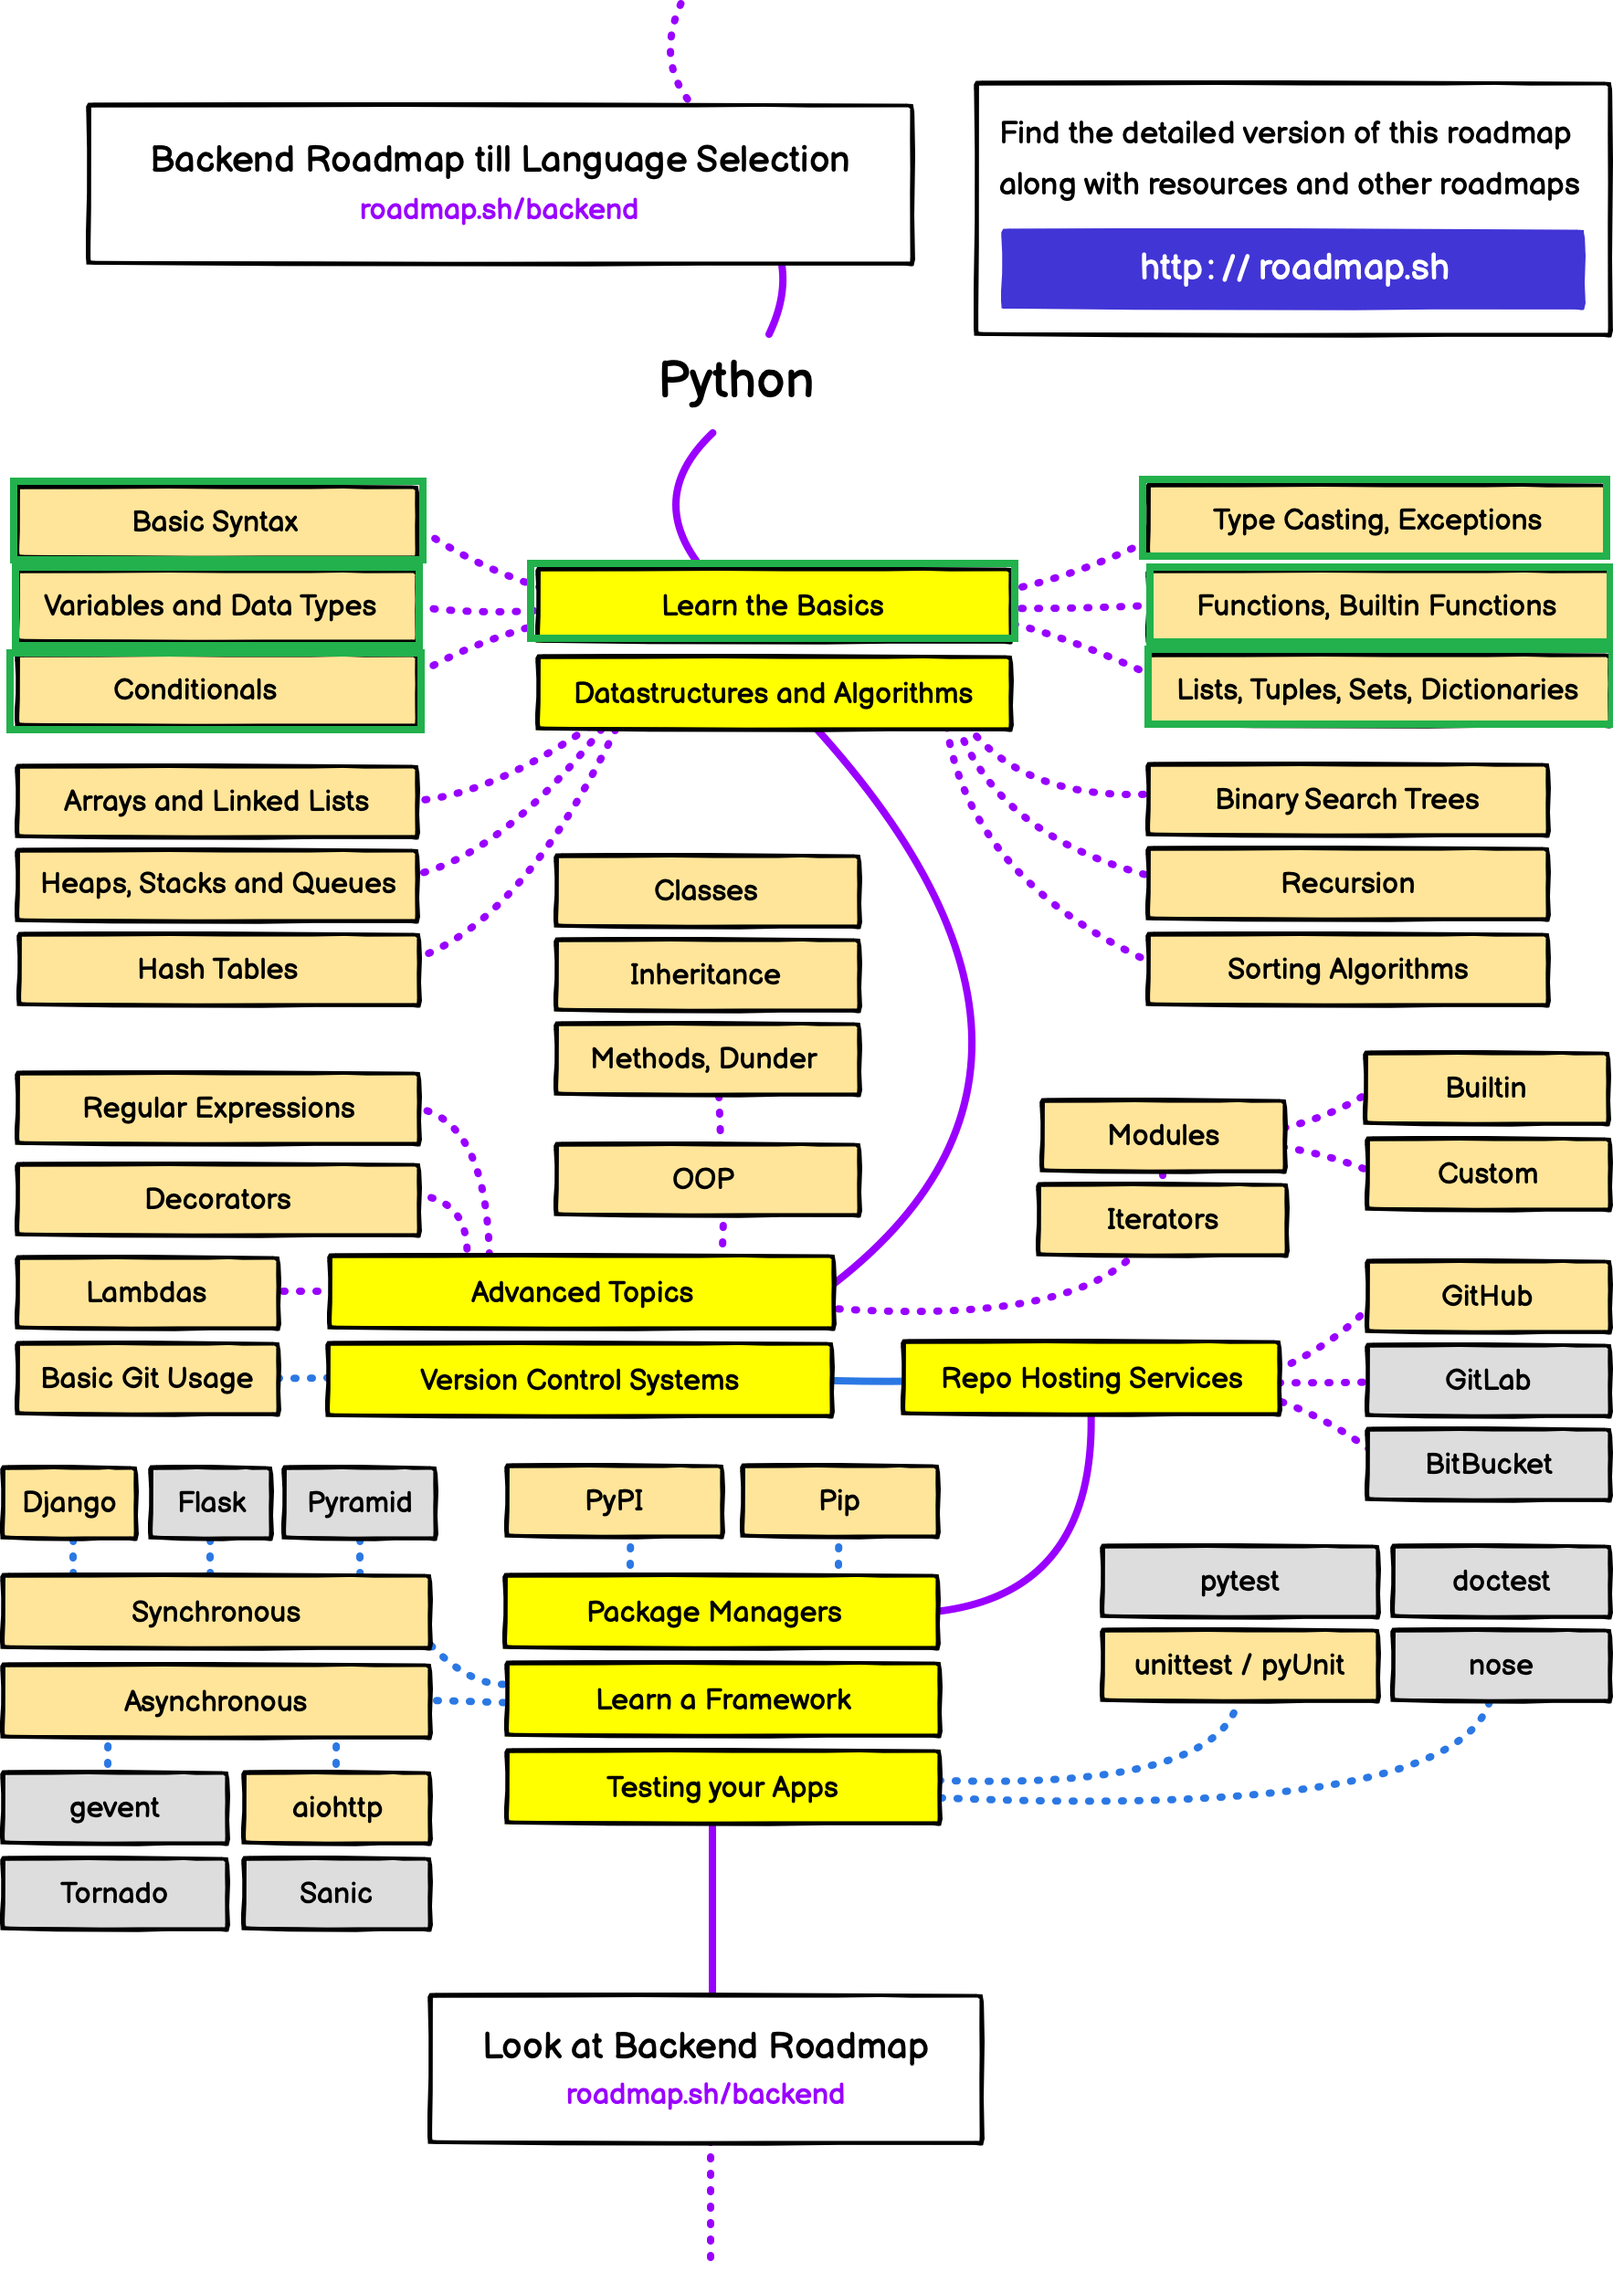
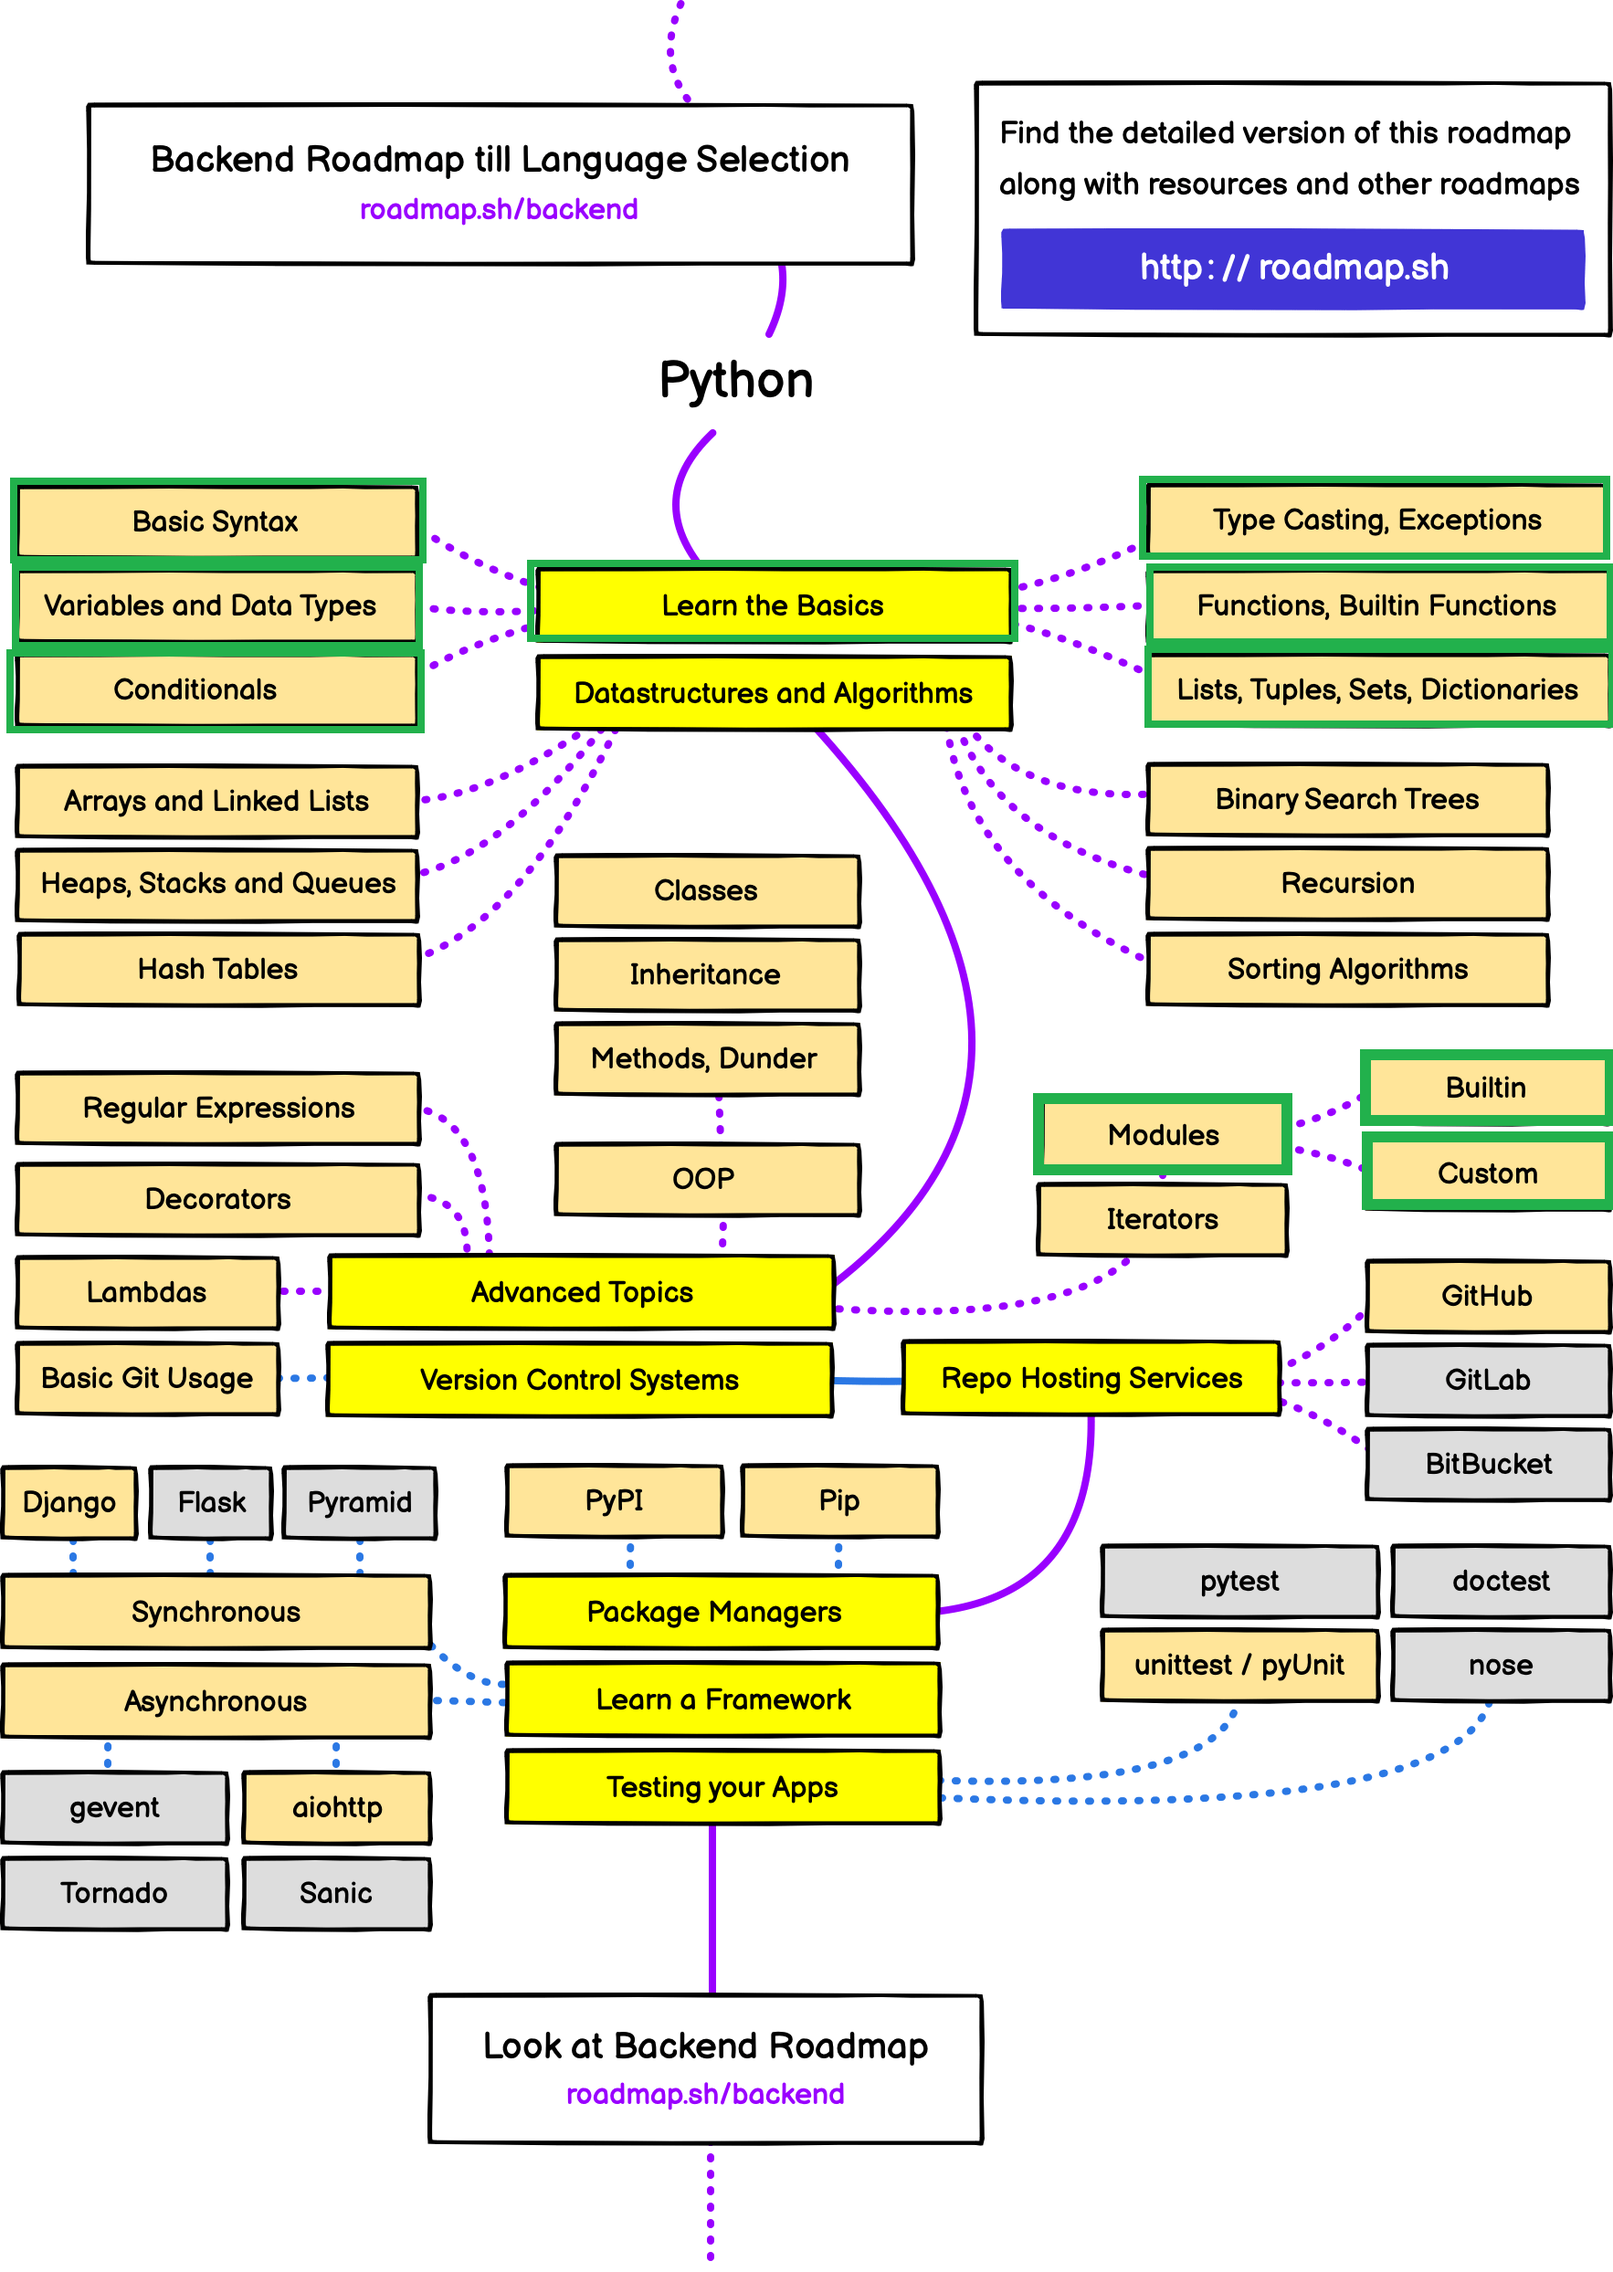
upp

Changed region(s): [[0.8409, 0.4642, 1.0, 0.5571], [0.6229, 0.4642, 0.8097, 0.5261]]

diff --git a/advanced_topics/modules/ascii_art.py b/advanced_topics/modules/ascii_art.py
@@ -1,0 +1,16 @@
+from pyfiglet import figlet_format
+from termcolor import colored
+
+def print_art(msg, color):
+	valid_colors = ("red", "green", "yellow", "blue", "magenta", "cyan", "white")
+
+	if color not in valid_colors:
+		color = "magenta"
+
+	ascii_art = figlet_format(msg)
+	colored_ascii = colored(ascii_art, color=color)
+	print(colored_ascii)
+
+msg = input("What would you like to print? ")
+color = input("What color? ")
+print_art(msg, color)

diff --git a/advanced_topics/iterators/for.py b/advanced_topics/iterators/for.py
@@ -1,0 +1,20 @@
+# Custom For Loop
+
+# for num in [1,2,3]
+# for char in "hi there"
+
+def my_for(iterable, func):
+	iterator = iter(iterable)
+	while True:
+		try:
+			thing = next(iterator)
+		except StopIteration:
+			break
+		else:
+			func(thing)
+		
+def square(x):
+	print(x*x)
+
+my_for("lol", print)
+my_for([1,2,3,4,5], square)

diff --git a/advanced_topics/iterators/custom_iterator.py b/advanced_topics/iterators/custom_iterator.py
@@ -1,0 +1,20 @@
+class Counter:
+	def __init__(self, low, high):
+		self.current = low
+		self.high = high
+
+	def __iter__(self):
+		return self
+
+	def __next__(self):
+		if self.current < self.high:
+			num = self.current
+			self.current += 1
+			return num
+		raise StopIteration
+
+
+
+
+for x in Counter(50,70):
+	print(x)

diff --git a/advanced_topics/modules/rand_module.py b/advanced_topics/modules/rand_module.py
@@ -1,0 +1,4 @@
+from random import choice as pick, randint as magic_number_chooser
+
+print(pick(["apple", "banana", "cherry", "durian"]))
+print(magic_number_chooser(1, 100))

diff --git a/advanced_topics/modules/colors.py b/advanced_topics/modules/colors.py
@@ -1,0 +1,4 @@
+from termcolor import colored
+
+text = colored("HI THERE!", color="magenta", on_color="on_cyan", attrs=["blink"])
+print(text)

diff --git a/advanced_topics/modules/note.md b/advanced_topics/modules/note.md
@@ -1,0 +1,32 @@
+# Modules
+Modules używamy aby nasz główny kod nie był za długi.
+
+## Built-in Modules
+Python gwarantuje wiele wbudowanych modułów, ich spis:  
+https://docs.python.org/3/py-modindex.html
+
+Przykładowe użycie:
+```
+import random
+from termcolor import colored
+```
+
+## Import from another file
+Sami również możemy tworzyć modules z funkcjami, a następnie wykorzystywać w innych programach
+aby importować z innego pliku należy:
+```
+import <file name>
+from <file name> import *
+from <file name> import <function name>
+```
+
+## Packages i pip
+Możemy korzystać z pakietów które stworzyli inni, znajdziemy je tutaj:
+https://pypi.org/
+
+aby je pobrać, używamy *pip*  
+
+Przykład:
+```
+pip install pokemon
+```
